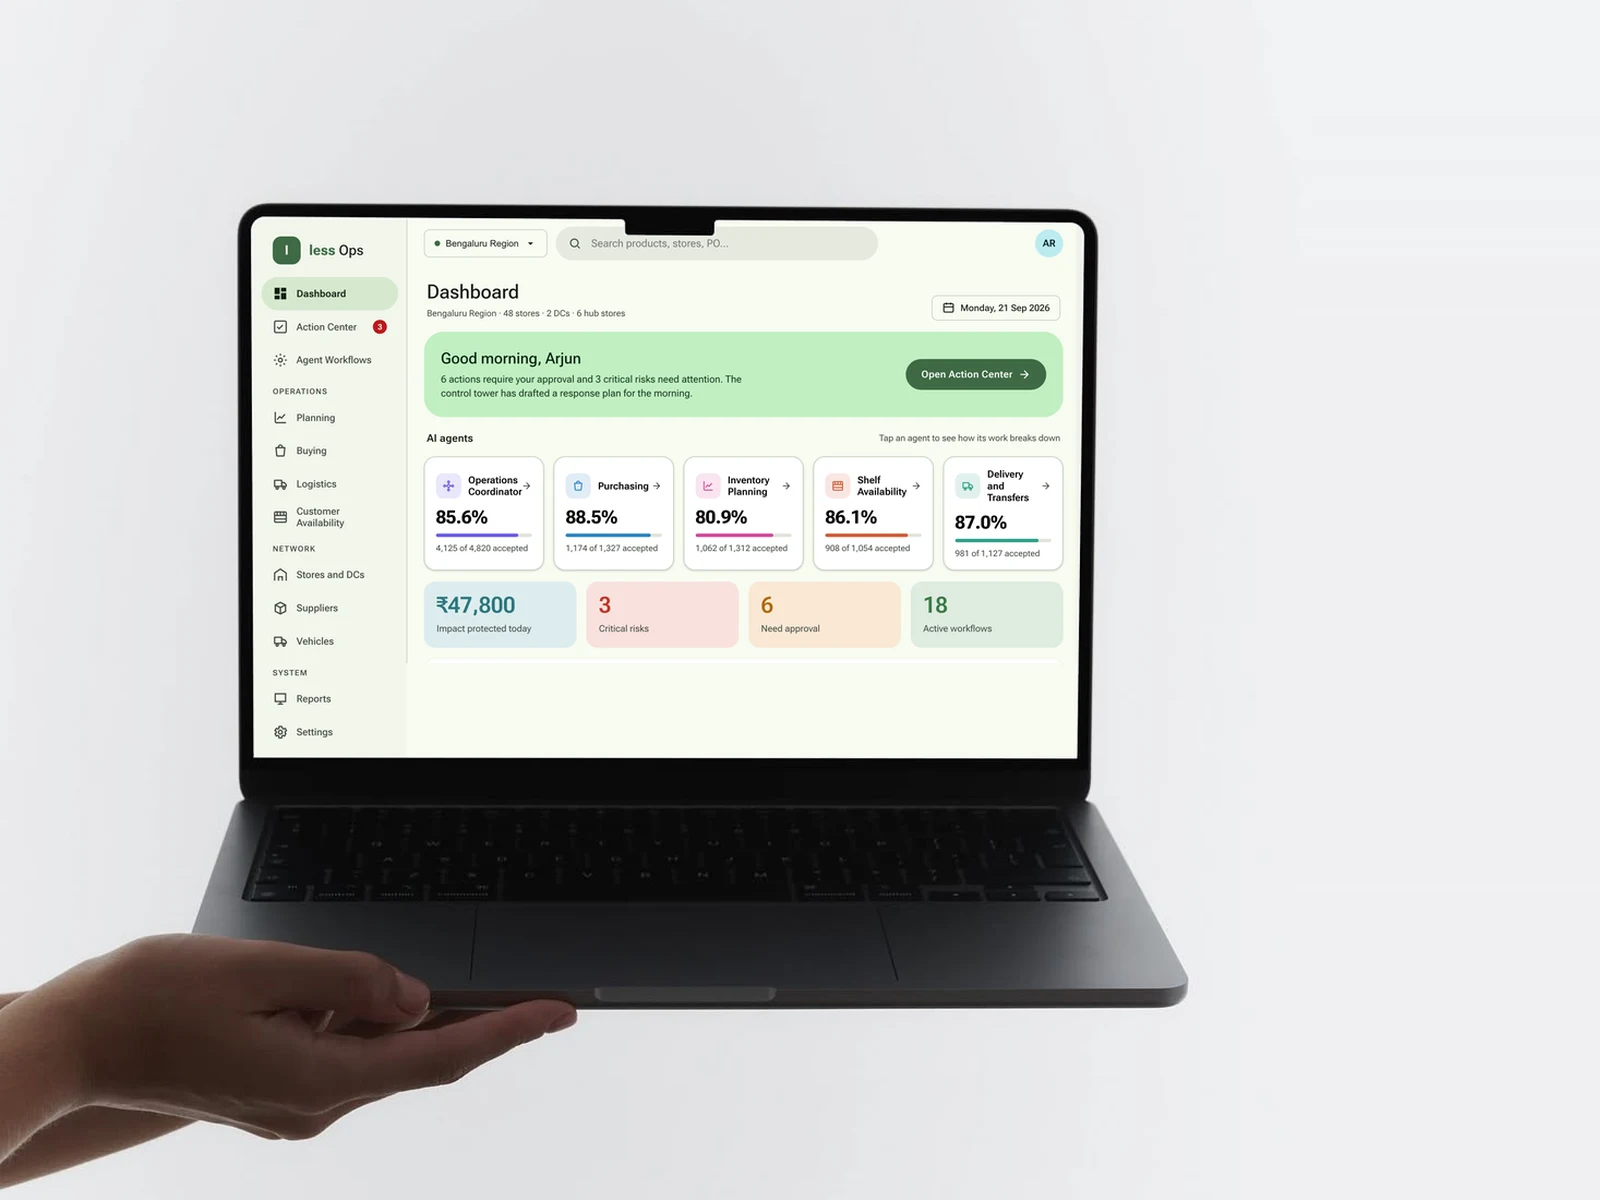
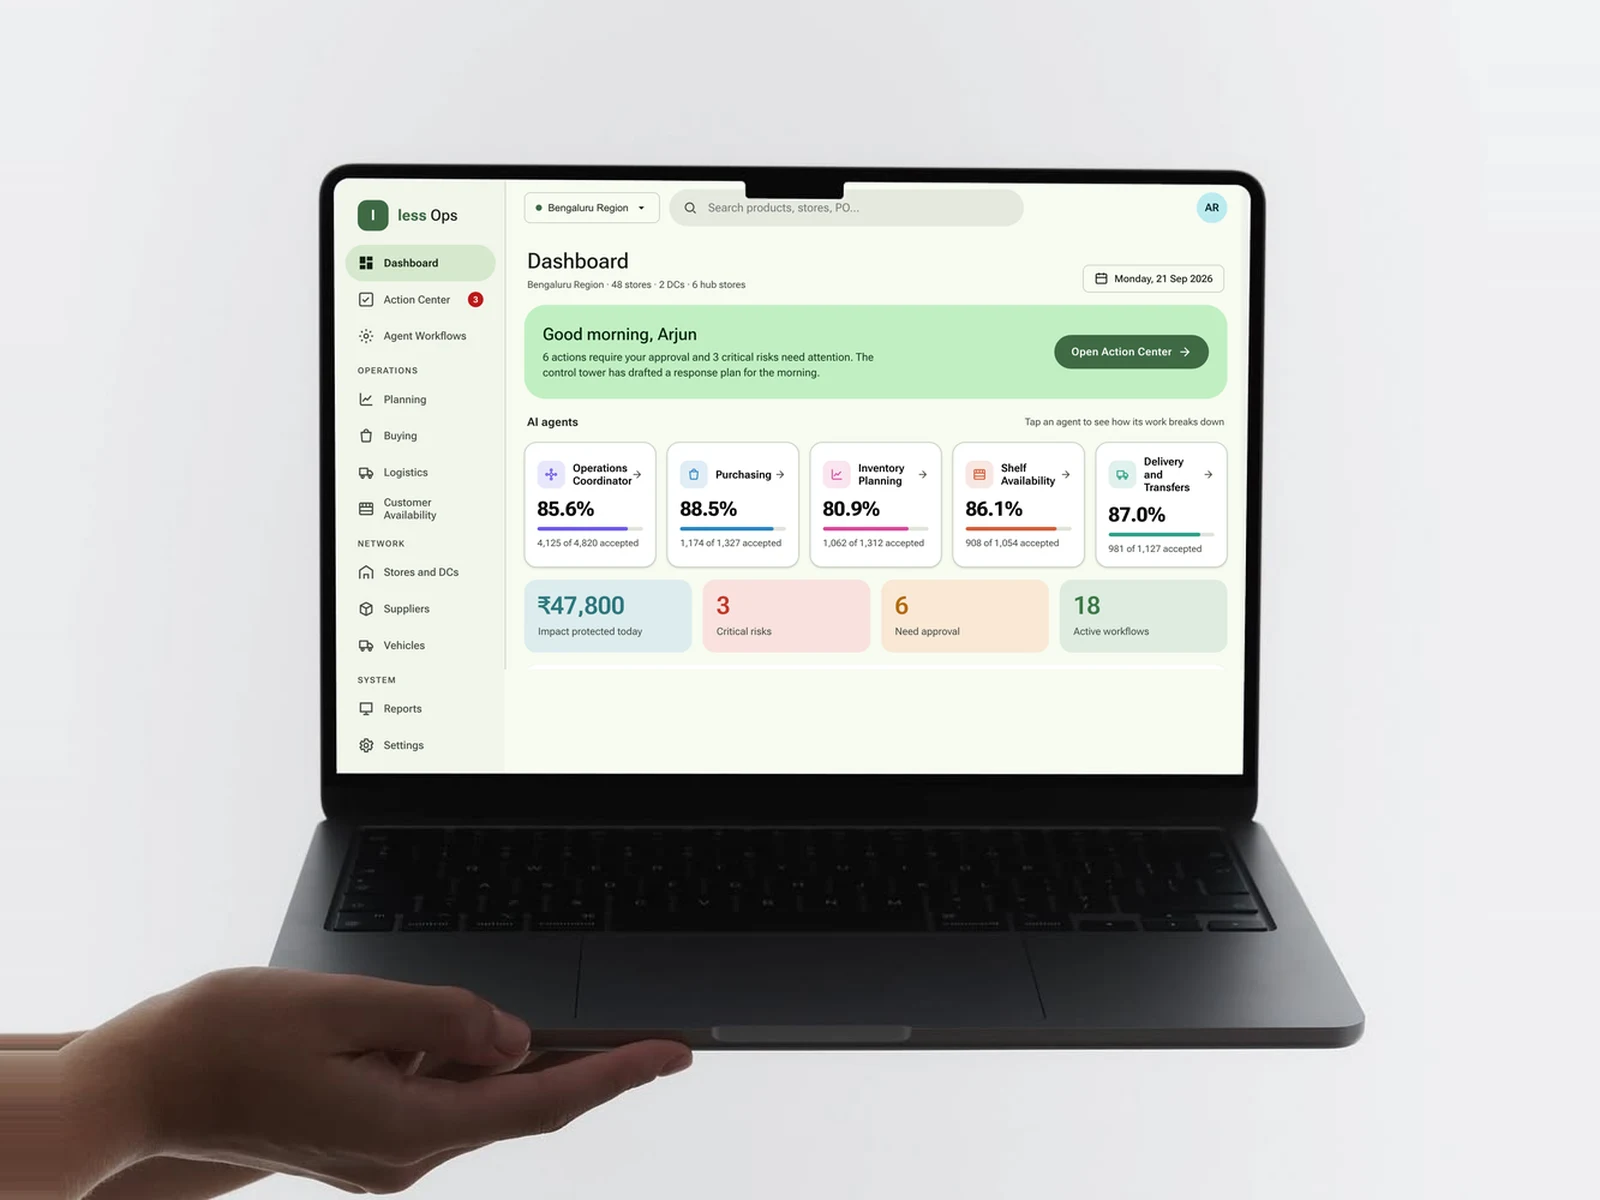
Centre the laptop in the less Ops card
It sat left of centre so the hand could enter from the card's left edge.
The crop is now centred on the laptop itself (measured from its own
extent, x 184-1053, not the hand's), with even room above and below.
The 48px the centred crop needs past the photo's left edge are the
photo's own edge column carried on, so the arm still reaches the frame.

Changed region(s): [[0.0, 0.1233, 0.875, 1.0]]

diff --git a/script.js b/script.js
@@ -273,7 +273,7 @@ const WORK = [
     // Decoded from the case study's own hero mockup and letterboxed onto the
     // artwork's background, so the laptop keeps its full width — the same
     // reason the insure-tech plate is padded rather than cover-cropped.
-    thumb: "media/less-ops-card.webp?v=7",
+    thumb: "media/less-ops-card.webp?v=8",
     // Opens in a tab rather than the portal: this one is a deployed site, not
     // a study embedded in the page, and it carries its own navigation.
     href: "https://less-ops.vercel.app/",

diff --git a/index.html b/index.html
@@ -368,6 +368,6 @@
   </footer>
 
   <script src="hand.js?v=254"></script>
-  <script src="script.js?v=415"></script>
+  <script src="script.js?v=416"></script>
 </body>
 </html>
